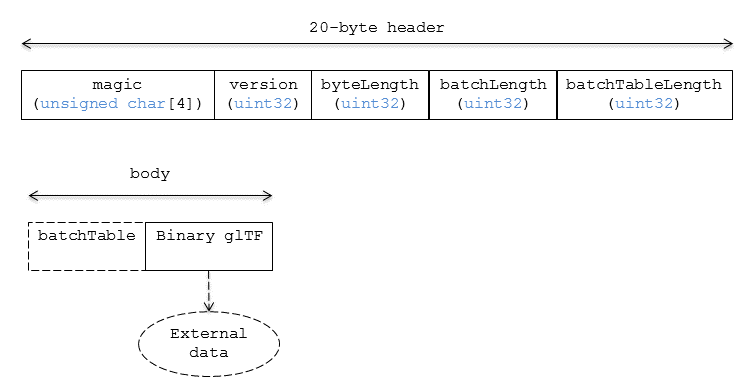
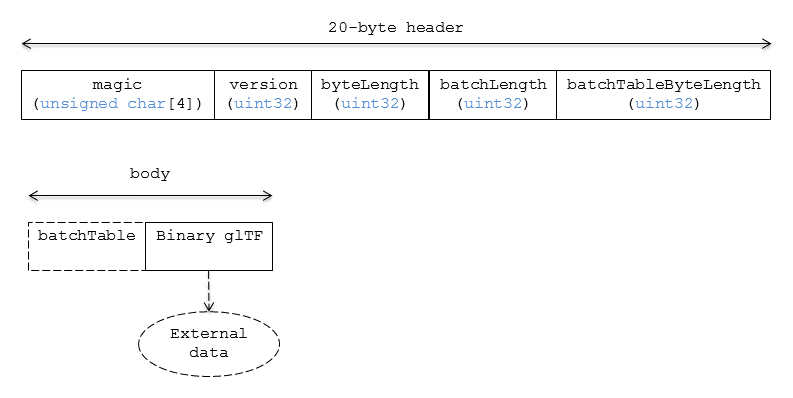
b3dm batchTableByteLength rename

diff --git a/b3dm/README.md b/b3dm/README.md
@@ -28,8 +28,8 @@ The 16-byte header contains:
 * `magic` - 4-byte ANSI string `b3dm`.  This can be used to identify the arraybuffer as a Batched 3D Model tile.
 * `version` - `uint32`, which contains the version of the Batched 3D Model format. It is currently `1`.
 * `byteLength` - `uint32`, which contains the length of the entire tile, including the header, in bytes.
-* `batchLength` - `unit32`, which contains the number of models in the tile.  This must be greater than or equal to zero.
-* `batchTableLength` - `uint32`, which contains the length of the batch table.  This must be greater than or equal to zero.  This field must be zero, which indicates there is not a batch table, or equal to `batchTableLength`.
+* `batchLength` - `unit32`, which contains the number of models in the batch.  This must be greater than or equal to zero.
+* `batchTableByteLength` - `uint32`, which contains the length of the batch table in bytes.  This must be greater than or equal to zero.  Zero indicates there is not a batch table.
 
 _TODO: code example reading header_
 
@@ -39,11 +39,11 @@ The body immediately follows the header, and is composed of two fields: `Batch T
 
 In the Binary glTF section, each vertex has an unsigned short `batchId` attribute in the range `[0, number of models in the batch - 1]`.  The `batchId` indicates the model to which the vertex belongs.  This allows models to be batched together and still be identifiable.
 
-The batch table maps each `batchId` to per-model properties.  If present, the batch table immediately follows the header and is `batchTableLength` bytes long.
+The batch table maps each `batchId` to per-model properties.  If present, the batch table immediately follows the header and is `batchTableByteLength` bytes long.
 
 The batch table is a `UTF-8` string containing JSON.  It can be extracted from the arraybuffer using the `TextDecoder` JavaScript API and transformed to a JavaScript object with `JSON.parse`.
 
-Each property in the object is an array with its length equal to the number of models in the batch.  Each array is a homogeneous collection of `String`, `Number`, or `Boolean` elements.  Elements may be `null`.
+Each property in the object is an array with its length equal to `header.batchLength`.  Each array is a homogeneous collection of `String`, `Number`, or `Boolean` elements.  Elements may be `null`.
 
 A vertex's `batchId` is used to access elements in each array and extract the corresponding properties.  For example, the following batch table has properties for a batch of two models.
 ```json
@@ -74,7 +74,7 @@ yearBuilt[1] = 2015;
 
 Batched 3D Model uses glTF 1.0 with the [KHR_binary_glTF](https://github.com/KhronosGroup/glTF/tree/master/extensions/Khronos/KHR_binary_glTF) extension.
 
-Binary glTF immediately follows the batch table.  It begins `12 + batchTableLength` bytes from the start of the arraybuffer and continues for the rest of arraybuffer.  It may embed all of its geometry, texture, and animations, or it may refer to external sources for some or all of these data.
+Binary glTF immediately follows the batch table.  It begins `12 + batchTableByteLength` bytes from the start of the arraybuffer and continues for the rest of arraybuffer.  It may embed all of its geometry, texture, and animations, or it may refer to external sources for some or all of these data.
 
 As described above, each vertex has a `batchId` attribute indicating the model to which it belongs.  For example, vertices for a batch with three models may look like this:
 ```
